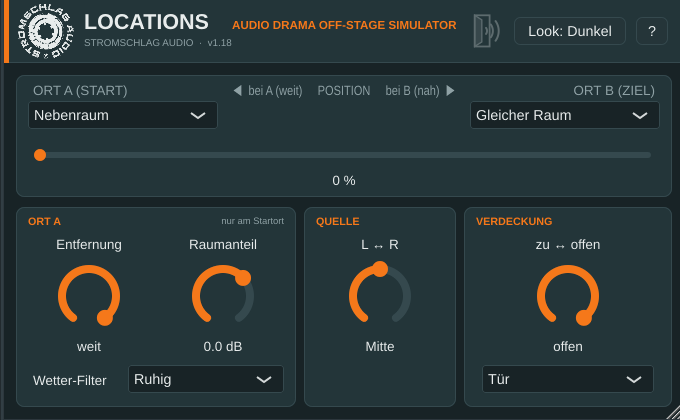
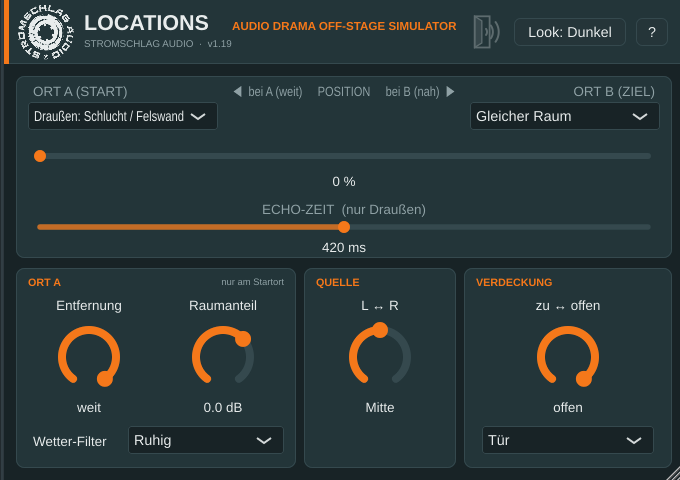
1.19: Draussen-Orte mit kaum hoerbarem Hall, neuer Regler Echo-Zeit (nur Draussen)
Anregung von Markus Hildebrandt (SOUNDJOB).

Claude-Session: https://claude.ai/code/session_01N8U6GB1xxMvz4mQTh8N7Nk

diff --git a/docs/index.html b/docs/index.html
@@ -64,6 +64,7 @@
     <li><strong>Quelle bewegen:</strong> eine Tür öffnet sich, während jemand spricht, oder jemand kommt aus dem Nebenraum herein.</li>
     <li><strong>Ein Hauptregler:</strong> „Position (A nach B)“ ist der Regler, den man automatisiert. Alles andere stellt man einmal ein.</li>
     <li><strong>Orte:</strong> 17 Umgebungen innen und draußen (z. B. Keller, Kirche, Tiefgarage, Wald, Schlucht), dazu Verdeckungen wie Tür, Fenster, Autoscheibe, Schrank, Kofferraum oder Unter Wasser. Die Verdeckung wirkt unabhängig von der Position, also auch, wenn die Quelle ganz nah ist.</li>
+    <li><strong>Echo-Zeit für draußen:</strong> Hall kaum hörbar, das Echo trägt den Raum. Die Echo-Zeit von Wald, Straße und Schlucht lässt sich verlängern, zum Beispiel für weite Täler.</li>
     <li><strong>Wetter-Filter für draußen:</strong> Ruhig, Wind / Regen, Sturm. Er verändert nur den Klang.</li>
     <li><strong>Vergrößerbare Oberfläche</strong> von 50 % bis 300 %, hell und dunkel.</li>
   </ul>

diff --git a/Source/PluginEditor.cpp b/Source/PluginEditor.cpp
@@ -44,6 +44,9 @@ static juce::AttributedString buildHelp (juce::Colour text, juce::Colour accent,
     head ("POSITION (A nach B)");
     body ("Der wichtigste Regler: 0 % = Quelle bei Ort A, 100 % = bei Ort B. Automatisiere ihn für jede Bewegung, zum Beispiel Treppe herunter, Suchtrupp kommt näher oder jemand geht weg.");
 
+    head ("ECHO-ZEIT (nur Draußen)");
+    body ("Unter der Position. Verlängert oder verkürzt das Echo der Draußen-Orte (Wald, Straße, Schlucht): Mitte = Original, nach rechts länger, zum Beispiel für weite Täler oder Alpen. Der Wert zeigt die Echo-Zeit in Millisekunden. Bei allen anderen Orten ist der Regler grau und ohne Wirkung. Der Hall ist draußen nur noch knapp hörbar, das Echo trägt den Raumeindruck.");
+
     head ("Kasten ORT A (wirkt nur am Startort)");
     body ("Entfernung: wie weit weg Ort A ist, von nah bis weit. Beispiel Suchtrupp: weit = tief im Wald, 40 % = ein paar Bäume entfernt.");
     body ("Raumanteil: mehr oder weniger Hall bzw. Echo von Ort A, in dB. Feinregler, normalerweise auf 0 dB lassen.");
@@ -106,6 +109,27 @@ LocationsEditor::LocationsEditor (LocationsProcessor& p) : AudioProcessorEditor 
     content.addAndMakeVisible (blend);
     attBlend = std::make_unique<APVTS::SliderAttachment> (processor.apvts, "blend", blend);
 
+    labelEcho.setText (u8 ("ECHO-ZEIT  (nur Drau\xc3\x9f""en)"), juce::dontSendNotification);
+    labelEcho.setJustificationType (juce::Justification::centred);
+    content.addAndMakeVisible (labelEcho);
+    echoSlider.setSliderStyle (juce::Slider::LinearHorizontal);
+    echoSlider.setTextBoxStyle (juce::Slider::TextBoxBelow, false, 70, 18);
+    content.addAndMakeVisible (echoSlider);
+    attEcho = std::make_unique<APVTS::SliderAttachment> (processor.apvts, "echoTime", echoSlider);
+    echoSlider.textFromValueFunction = [this] (double v)
+    {
+        // Anzeige in ms: Echo-Zeit des Ortes (A, sonst B) mal Faktor
+        const int a = juce::roundToInt (processor.apvts.getRawParameterValue ("placeA")->load());
+        const int b = juce::roundToInt (processor.apvts.getRawParameterValue ("placeB")->load());
+        const int i = (a >= loc::kFirstOutdoor && loc::place (a).echoMs > 0.0f) ? a : b;
+        if (i < loc::kFirstOutdoor || loc::place (i).echoMs <= 0.0f) return juce::String ("--");
+        return juce::String (juce::roundToInt (loc::place (i).echoMs * (float) v)) + " ms";
+    };
+    echoSlider.valueFromTextFunction = [] (const juce::String& t) { return (double) t.getFloatValue(); };
+    placeA.onChange = [this] { updateEchoState(); };
+    placeB.onChange = [this] { updateEchoState(); };
+    updateEchoState();
+
     setupKnob (distance, "distance", "Entfernung");
     setupKnob (door, "door", u8 ("zu \xe2\x86\x94 offen"));
     door.slider.onValueChange = [this] { repaint(); };   // Kasten VERDECKUNG zeigt an, ob sie wirkt
@@ -144,6 +168,7 @@ LocationsEditor::LocationsEditor (LocationsProcessor& p) : AudioProcessorEditor 
     // Tooltips
     placeA.setTooltip (u8 ("Startort der Bewegung"));
     placeB.setTooltip (u8 ("Zielort der Bewegung, meist Gleicher Raum"));
+    echoSlider.setTooltip (u8 ("Echo-Zeit der Drau\xc3\x9f""en-Orte (Wald, Stra\xc3\x9f""e, Schlucht): Mitte = Original, rechts l\xc3\xa4nger (weite T\xc3\xa4ler, Alpen). Bei anderen Orten ohne Wirkung."));
     blend.setTooltip (u8 ("Position: 0 % = bei Ort A (weit), 100 % = bei Ort B (nah). Hauptregler fuer die Bewegung."));
     distance.slider.setTooltip (u8 ("Wie weit weg Ort A ist (nah = 0 %, weit = 100 %). Ort B ist immer nah."));
     door.slider.setTooltip (u8 ("zu = dumpf und leise (Klang je nach Art der Verdeckung), offen = keine Wirkung. Wirkt auch bei Ort B (100 %) \xe2\x80\x93 f\xc3\xbcr frei im Raum ganz auf offen stellen."));
@@ -157,7 +182,9 @@ LocationsEditor::LocationsEditor (LocationsProcessor& p) : AudioProcessorEditor 
     // zuletzt gespeicherte Fenstergroesse wiederherstellen (sonst 100 %)
     const int savedW = (int) processor.apvts.state.getProperty (kUiWProp, kBaseW);
     const int savedH = (int) processor.apvts.state.getProperty (kUiHProp, kBaseH);
-    setSize (juce::jlimit (kBaseW / 2, kBaseW * 3, savedW), juce::jlimit (kBaseH / 2, kBaseH * 3, savedH));
+    juce::ignoreUnused (savedH);   // Hoehe aus dem Seitenverhaeltnis ableiten (altes 1.x-Fenster war niedriger)
+    const int restoredW = juce::jlimit (kBaseW / 2, kBaseW * 3, savedW);
+    setSize (restoredW, juce::roundToInt ((float) restoredW * (float) kBaseH / (float) kBaseW));
     sizeReady = true;
 }
 
@@ -187,7 +214,7 @@ void LocationsEditor::applyTheme()
     look.setColour (juce::TextButton::buttonColourId, theme.dark ? theme.panel : theme.bg);
     look.setColour (juce::TextButton::textColourOffId, theme.text);
 
-    for (auto* l : { &labelA, &labelB, &labelBlend })
+    for (auto* l : { &labelA, &labelB, &labelBlend, &labelEcho })
         l->setColour (juce::Label::textColourId, theme.dim);
     themeButton.setButtonText (theme.dark ? "Look: Dunkel" : "Look: Hell");
     helpText.setAttributed (buildHelp (theme.text, theme.accent, theme.dim), theme.panel);
@@ -280,9 +307,9 @@ void LocationsEditor::paint (juce::Graphics& g)
 
     // Karten
     g.setColour (theme.panel);
-    g.fillRoundedRectangle (12.0f, 76.0f, (float) W - 24.0f, 122.0f, 8.0f);
+    g.fillRoundedRectangle (12.0f, 76.0f, (float) W - 24.0f, 182.0f, 8.0f);
     g.setColour (theme.line);
-    g.drawRoundedRectangle (12.5f, 76.5f, (float) W - 25.0f, 121.0f, 8.0f, 1.0f);
+    g.drawRoundedRectangle (12.5f, 76.5f, (float) W - 25.0f, 181.0f, 8.0f, 1.0f);
 
     // Untere Kaesten: ORT A | VERDECKUNG | QUELLE
     struct Box { float x, w; const char* title; const char* note; };
@@ -294,15 +321,15 @@ void LocationsEditor::paint (juce::Graphics& g)
     {
         const bool hot = barrierActive && juce::String (b.title) == "VERDECKUNG";
         g.setColour (theme.panel);
-        g.fillRoundedRectangle (b.x, 208.0f, b.w, 200.0f, 8.0f);
+        g.fillRoundedRectangle (b.x, 268.0f, b.w, 200.0f, 8.0f);
         g.setColour (hot ? theme.accent : theme.line);
-        g.drawRoundedRectangle (b.x + 0.5f, 208.5f, b.w - 1.0f, 199.0f, 8.0f, hot ? 2.0f : 1.0f);
+        g.drawRoundedRectangle (b.x + 0.5f, 268.5f, b.w - 1.0f, 199.0f, 8.0f, hot ? 2.0f : 1.0f);
         g.setColour (theme.accent);
         g.setFont (juce::FontOptions (12.0f, juce::Font::bold));
-        g.drawText (b.title, (int) b.x + 12, 214, (int) b.w - 24, 16, juce::Justification::centredLeft);
+        g.drawText (b.title, (int) b.x + 12, 274, (int) b.w - 24, 16, juce::Justification::centredLeft);
         g.setColour (hot ? theme.accent : theme.dim);
         g.setFont (juce::FontOptions (10.5f, hot ? juce::Font::bold : juce::Font::plain));
-        g.drawText (hot ? juce::String ("aktiv") : u8 (b.note), (int) b.x + 12, 214, (int) b.w - 24, 16, juce::Justification::centredRight);
+        g.drawText (hot ? juce::String ("aktiv") : u8 (b.note), (int) b.x + 12, 274, (int) b.w - 24, 16, juce::Justification::centredRight);
     }
 }
 
@@ -322,7 +349,7 @@ void LocationsEditor::resized()
     // Look links, Hilfe ganz rechts (gleicher Gesamtplatz, nur getauscht)
     themeButton.setBounds (w - 170, 18, 112, 28);
     helpButton.setBounds (w - 48, 18, 32, 28);
-    helpScroll.setBounds (12, 76, w - 24, 332);   // deckt die Kartenflaeche (y 76 bis 408) genau ab
+    helpScroll.setBounds (12, 76, w - 24, 392);   // deckt die Kartenflaeche (y 76 bis 468) genau ab
     helpText.setWidth (helpScroll.getMaximumVisibleWidth());
 
     labelA.setBounds (24, 82, 200, 18);
@@ -331,6 +358,8 @@ void LocationsEditor::resized()
     placeB.setBounds (w - 214, 102, 190, 28);
     labelBlend.setBounds (224, 82, w - 448, 18);
     blend.setBounds (24, 140, w - 48, 50);
+    labelEcho.setBounds (224, 200, w - 448, 18);
+    echoSlider.setBounds (24, 216, w - 48, 40);
 
     auto placeKnob = [] (Knob& k, int x, int y, int cw)
     {
@@ -338,15 +367,28 @@ void LocationsEditor::resized()
         k.slider.setBounds (x + 10, y + 20, cw - 20, 100);
     };
     // ORT A: Entfernung, Raumanteil, darunter Wetter-Filter
-    placeKnob (distance, 18, 236, 134);
-    placeKnob (room, 152, 236, 134);
-    weatherLabel.setBounds (24, 368, 100, 26);
-    weatherBox.setBounds (124, 366, 156, 28);
+    placeKnob (distance, 18, 296, 134);
+    placeKnob (room, 152, 296, 134);
+    weatherLabel.setBounds (24, 428, 100, 26);
+    weatherBox.setBounds (124, 426, 156, 28);
     // QUELLE (Mitte): L-R
-    placeKnob (pan, 306, 236, 140);
+    placeKnob (pan, 306, 296, 140);
     // VERDECKUNG (rechts aussen, wirkt bis zum Schluss): Regler, Art-Auswahl darunter (auf Hoehe des Wetter-Filters)
     const int vx = 466, vw = w - 12 - 6 - vx;
-    placeKnob (door, vx, 236, vw);
-    barrierBox.setBounds (vx + 12, 366, vw - 24, 28);
+    placeKnob (door, vx, 296, vw);
+    barrierBox.setBounds (vx + 12, 426, vw - 24, 28);
     helpScroll.toFront (false);
+}
+
+// Echo-Zeit ist nur aktiv (orange), wenn Ort A oder B ein Draussen-Ort mit Echo ist (Wald, Strasse, Schlucht)
+void LocationsEditor::updateEchoState()
+{
+    const int a = juce::roundToInt (processor.apvts.getRawParameterValue ("placeA")->load());
+    const int b = juce::roundToInt (processor.apvts.getRawParameterValue ("placeB")->load());
+    auto usable = [] (int i) { return i >= loc::kFirstOutdoor && loc::place (i).echoMs > 0.0f; };
+    const bool active = usable (a) || usable (b);
+    echoSlider.setEnabled (active);
+    echoSlider.setAlpha (active ? 1.0f : 0.35f);
+    labelEcho.setAlpha (active ? 1.0f : 0.45f);
+    echoSlider.updateText();
 }

diff --git a/Source/LocationsDSP.h b/Source/LocationsDSP.h
@@ -55,9 +55,9 @@ inline const PlaceDef& place (int i)
         { "Museum",             10000,  3500,  -2.0f, -12.0f, 1.80f, 5500, 1.8f, -12,  -3, 10.0f,   0, -80,  -80, 0.0f },
         { "Tiefgarage",          8000,  3000,  -2.0f, -12.0f, 2.00f, 4500, 1.6f,  -9,  -2, 10.0f,  35, -26,  -18, 0.25f },
         { "Draussen: Feld",     16000,  2200,   0.0f, -24.0f, 0.00f, 6000, 1.0f, -80, -80, 30.0f,   0, -80,  -80, 0.0f },
-        { "Draussen: Wald",     12000,  1800,  -1.0f, -22.0f, 0.00f, 2800, 1.0f, -80, -80, 30.0f, 140, -32,  -13, 0.30f },
-        { "Draussen: Strasse",  14000,  2500,   0.0f, -22.0f, 0.50f, 3500, 1.6f, -24, -13, 30.0f,  95, -20,  -10, 0.35f },
-        { "Draussen: Schlucht", 14000,  2200,   0.0f, -22.0f, 0.00f, 6000, 1.0f, -80, -80, 30.0f, 420, -16,   -6, 0.45f },
+        { "Draussen: Wald",     12000,  1800,  -1.0f, -22.0f, 0.70f, 2800, 1.2f, -46, -32, 30.0f, 140, -32,  -13, 0.30f },
+        { "Draussen: Strasse",  14000,  2500,   0.0f, -22.0f, 0.50f, 3500, 1.6f, -40, -28, 30.0f,  95, -20,  -10, 0.35f },
+        { "Draussen: Schlucht", 14000,  2200,   0.0f, -22.0f, 1.40f, 4000, 1.5f, -44, -32, 30.0f, 420, -16,   -6, 0.45f },
     };
     return defs[std::clamp (i, 0, kNumPlaces - 1)];
 }
@@ -234,13 +234,16 @@ public:
     {
         sr = sampleRate;
         rev.prepare (sr);
-        echo.prepare ((int) (0.6f * sr));
+        echo.prepare ((int) (2.0f * sr));   // bis 2 s (Schlucht x4 = 1,7 s)
         echoLp.set (2500.0f, sr);
+        echoGlide = 1.0f / (0.25f * sr);   // ca. 250 ms Gleitzeit
         current = -1;
         reset();
     }
     void reset() { rev.reset(); echo.reset(); echoLp.reset(); }
     void want (int p) { wanted = p; if (current < 0) apply(); }
+    // Echo-Zeit-Faktor: wirkt nur bei Orten draussen (Wald, Strasse, Schlucht)
+    void setEchoScale (float s) { scale = s; }
 
     inline void process (float in, float wet, float echoGain, float& l, float& r)
     {
@@ -259,7 +262,9 @@ public:
         }
         if (hasEcho)
         {
-            const float e = echo.read();
+            const float target = echoBase * (outdoor ? scale : 1.0f);
+            echoLen += (target - echoLen) * echoGlide;       // gleitend: kein Knacken beim Verstellen
+            const float e = echo.readFrac (echoLen);
             echo.write (in + echoLp.lowpass (e) * fb);
             l += e * echoGain; r += e * echoGain;
         }
@@ -274,12 +279,15 @@ private:
         hasRev = p.rt60 > 0.0f;
         hasEcho = p.echoMs > 0.0f;
         rev.set (std::max (0.1f, p.rt60), p.dampHz, p.size);
-        echo.setLength (std::max (1, (int) (p.echoMs * 0.001f * sr)));
+        echoBase = std::max (1.0f, p.echoMs * 0.001f * sr);
+        outdoor = current >= kFirstOutdoor;
+        echoLen = echoBase * (outdoor ? scale : 1.0f);
         fb = p.echoFb;
     }
     float sr = 48000.0f, fade = 1.0f, fb = 0.0f;
+    float scale = 1.0f, echoBase = 1.0f, echoLen = 1.0f, echoGlide = 0.0001f;
     int current = -1, wanted = 0;
-    bool hasRev = false, hasEcho = false;
+    bool hasRev = false, hasEcho = false, outdoor = false;
     Reverb rev; Delay echo; OnePole echoLp;
 };
 
@@ -294,6 +302,7 @@ struct Params
     float pan = 0.0f;          // -1 = links, 0 = Mitte, +1 = rechts (nur die Quelle, nicht der Raum)
     int   barrier = 0;         // Tuer / Fenster / Vorhang / Autoscheibe
     int   weather = 0;         // Ruhig / Wind-Regen / Sturm (wirkt nur draussen bei Ort A)
+    float echoTime = 1.0f;     // Faktor auf die Echo-Zeit der Orte draussen (0,25 bis 4)
 };
 
 class Engine
@@ -363,6 +372,8 @@ private:
         const float tDist = std::clamp (p.distance, 0.0f, 1.0f);
         const float tDoor = std::clamp (p.door, 0.0f, 1.0f);
         const float tPan = std::clamp (p.pan, -1.0f, 1.0f);
+        const float es = std::clamp (p.echoTime, 0.25f, 4.0f);
+        roomA.setEchoScale (es); roomB.setEchoScale (es);   // vor want(): neue Orte starten gleich mit der richtigen Echo-Zeit
         roomA.want (p.placeA); roomB.want (p.placeB);
 
         const auto& A = place (p.placeA);

diff --git a/Source/PluginProcessor.cpp b/Source/PluginProcessor.cpp
@@ -51,6 +51,13 @@ juce::AudioProcessorValueTreeState::ParameterLayout LocationsProcessor::createLa
                                                        NormalisableRange<float> (0.0f, 1.0f), 1.0f, doorText));
     layout.add (std::make_unique<AudioParameterChoice> (ParameterID { "barrier", 1 }, "Verdeckung (Art)", barrierNames(), 0));
     layout.add (std::make_unique<AudioParameterChoice> (ParameterID { "weather", 1 }, "Wetter-Filter (Ort A draussen)", weatherNames(), 0));
+    {
+        NormalisableRange<float> r (0.25f, 4.0f);
+        r.setSkewForCentre (1.0f);   // Mitte = Original-Echo-Zeit des Ortes
+        auto echoText = AudioParameterFloatAttributes().withStringFromValueFunction (
+            [] (float v, int) { return "x" + String (v, 2); });
+        layout.add (std::make_unique<AudioParameterFloat> (ParameterID { "echoTime", 1 }, "Echo-Zeit (nur Draussen)", r, 1.0f, echoText));
+    }
     layout.add (std::make_unique<AudioParameterFloat> (ParameterID { "room", 1 }, "Raumanteil (Ort A)",
                                                        NormalisableRange<float> (-24.0f, 12.0f), 0.0f, decibel));
     auto panText = AudioParameterFloatAttributes().withStringFromValueFunction (
@@ -76,6 +83,7 @@ LocationsProcessor::LocationsProcessor()
     pPan = apvts.getRawParameterValue ("pan");
     pBarrier = apvts.getRawParameterValue ("barrier");
     pWeather = apvts.getRawParameterValue ("weather");
+    pEchoTime = apvts.getRawParameterValue ("echoTime");
 }
 
 void LocationsProcessor::prepareToPlay (double sampleRate, int maxBlock)
@@ -113,6 +121,7 @@ void LocationsProcessor::processBlock (juce::AudioBuffer<float>& buffer, juce::M
     p.pan = pPan->load();
     p.barrier = juce::roundToInt (pBarrier->load());
     p.weather = juce::roundToInt (pWeather->load());
+    p.echoTime = pEchoTime->load();
 
     float* left = buffer.getWritePointer (0);
 

diff --git a/Source/PluginEditor.h b/Source/PluginEditor.h
@@ -69,7 +69,7 @@ private:
     static Theme darkTheme();
     static Theme lightTheme();
 
-    static constexpr int kBaseW = 680, kBaseH = 420;
+    static constexpr int kBaseW = 680, kBaseH = 480;
 
     LocationsProcessor& processor;
     juce::LookAndFeel_V4 look;
@@ -79,8 +79,10 @@ private:
     bool sizeReady = false;   // erst nach dem Wiederherstellen der Groesse Fenstergroesse speichern
     juce::Image logo;
     juce::ComboBox placeA, placeB;
-    juce::Label labelA, labelB, labelBlend;
-    juce::Slider blend;
+    juce::Label labelA, labelB, labelBlend, labelEcho;
+    juce::Slider blend, echoSlider;
+    std::unique_ptr<APVTS::SliderAttachment> attEcho;
+    void updateEchoState();
     Knob distance, door, pan, room;
     juce::ComboBox barrierBox, weatherBox;
     juce::Label weatherLabel;

diff --git a/Source/PluginProcessor.h b/Source/PluginProcessor.h
@@ -45,7 +45,7 @@ private:
     std::atomic<float>* pBlend = nullptr;  std::atomic<float>* pDistance = nullptr;
     std::atomic<float>* pDoor = nullptr;   std::atomic<float>* pRoom = nullptr;
     std::atomic<float>* pPan = nullptr;
-    std::atomic<float>* pBarrier = nullptr; std::atomic<float>* pWeather = nullptr;
+    std::atomic<float>* pBarrier = nullptr; std::atomic<float>* pWeather = nullptr; std::atomic<float>* pEchoTime = nullptr;
 
     JUCE_DECLARE_NON_COPYABLE_WITH_LEAK_DETECTOR (LocationsProcessor)
 };

diff --git a/README.md b/README.md
@@ -82,14 +82,14 @@ Den Hall des Szenenraums (z. B. eine Wohnzimmer-Impulsantwort) legst du wie gewo
 | Museum | Hohe Ausstellungsräume, Foyer | Großer, heller, harter Hall |
 | Tiefgarage | Beton, niedrige Decke | Langer, rauer Hall mit kurzem Flatterecho |
 
-**Draußen** (kein Raumhall, sondern Höhenverlust mit der Entfernung und Echos)
+**Draußen** (Höhenverlust mit der Entfernung und Echos; Hall nur noch knapp an der Hörschwelle, das Echo trägt den Raumeindruck)
 
 | Ort | Wann nehmen | Klang |
 |---|---|---|
 | Draußen: Feld | Offene Fläche, Steppe, Outback | Kein Hall, nur Höhen- und Pegelverlust |
-| Draußen: Wald | Im Wald, zwischen Bäumen | Kein Hall, weiches dumpfes Echo aus der Ferne |
-| Draußen: Straße | Zwischen Häusern | Kurzes Echo von den Hauswänden, etwas Raum |
-| Draußen: Schlucht / Felswand | Berge, Steinbruch, Felswand | Langes, wiederholtes Echo |
+| Draußen: Wald | Im Wald, zwischen Bäumen | Weiches dumpfes Echo aus der Ferne, Hall kaum hörbar |
+| Draußen: Straße | Zwischen Häusern | Kurzes Echo von den Hauswänden, Hall kaum hörbar |
+| Draußen: Schlucht / Felswand | Berge, Steinbruch, Felswand | Langes, wiederholtes Echo, Hall kaum hörbar; die Echo-Zeit lässt sich verlängern (Alpen, weite Täler) |
 
 Die Laufzeit des Weges (ein paar Millisekunden innen, mehr draußen) und das Leiserwerden mit der Entfernung
 passieren automatisch.
@@ -102,6 +102,7 @@ passieren automatisch.
 |---|---|
 | Ort A / Ort B | Start und Ziel der Bewegung |
 | Position (A nach B) | **der Regler für die Bewegung**: 0 % = bei Ort A, 100 % = bei Ort B (nah) |
+| Echo-Zeit (nur Draußen) | Schieberegler unter der Position. Streckt oder verkürzt das Echo von Wald, Straße und Schlucht: Mitte = Original, rechts länger (bis ×4), links kürzer. Angezeigt wird die Zeit in ms. Bei allen anderen Orten grau und ohne Wirkung |
 
 **Unten, in drei Kästen**
 
@@ -148,6 +149,7 @@ Aus der Ferne kommen nur Fetzen durch, je näher er kommt, desto verständlicher
 
 Die Versionsnummer steht in der Datei `VERSION`, im Plugin-Kopf und im Namen der Release. Sie wird bei jeder Änderung hochgezählt (1.0, 1.1, 1.2 …).
 
+- **1.19** – Draußen-Orte auf Anregung von Markus Hildebrandt überarbeitet: Hall kaum noch hörbar (knapp an der Hörschwelle), das Echo trägt den Raumeindruck. Neuer Regler „Echo-Zeit“ unter der Position, nur bei Draußen-Orten aktiv (Wald, Straße, Schlucht), von ×0,25 bis ×4 gegenüber dem Original. Das Fenster ist dadurch etwas höher; gespeicherte Fenstergrößen bleiben in der Breite erhalten.
 - **1.18** – Look und Hilfe-Knopf getauscht: „?“ ganz rechts, Look links davon.
 - **1.17** – Hilfe: Fenster deckt die Kartenfläche mit gleichen runden Ecken genau ab.
 - **1.16** – Hilfe: Credits zeigen „Idee und Konzept: Lars Eickstädt“ (ohne Umsetzungszeile).
